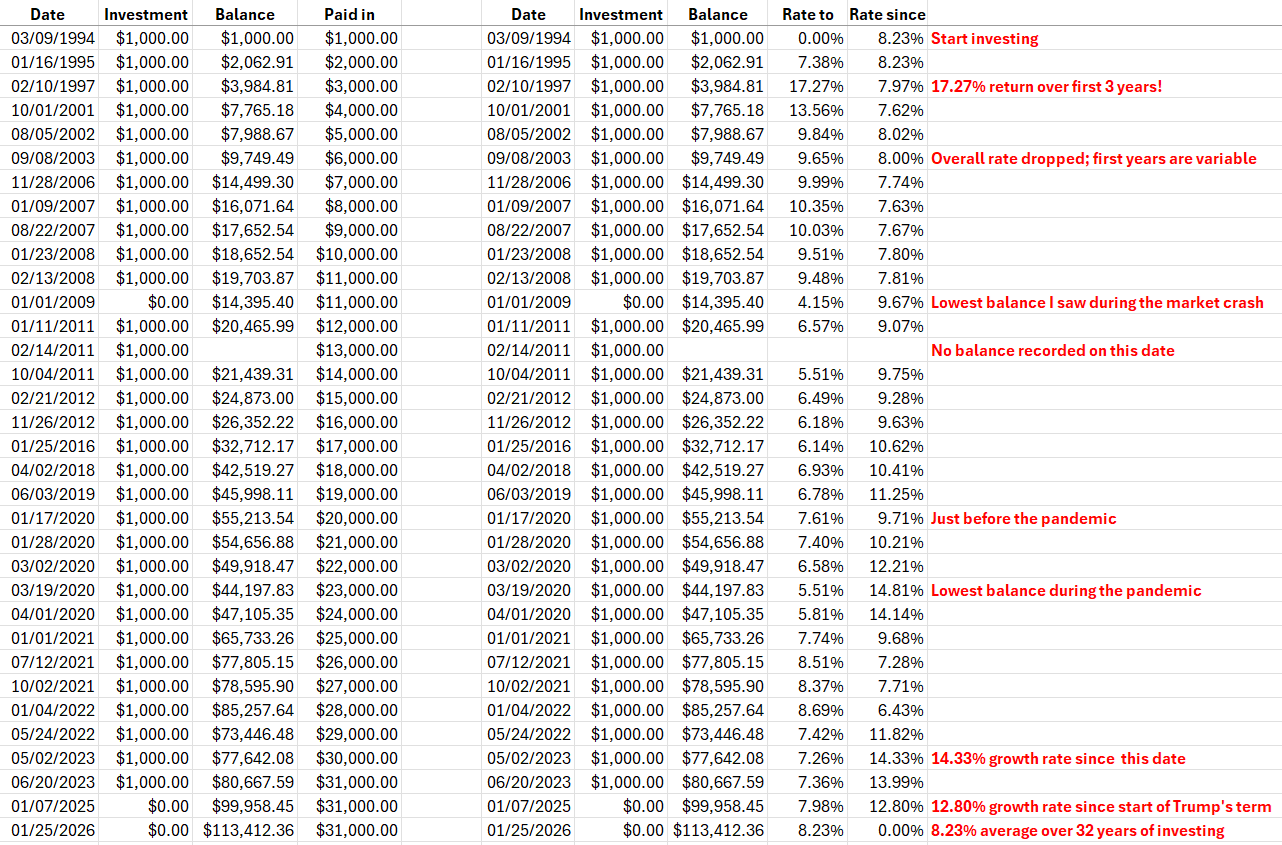
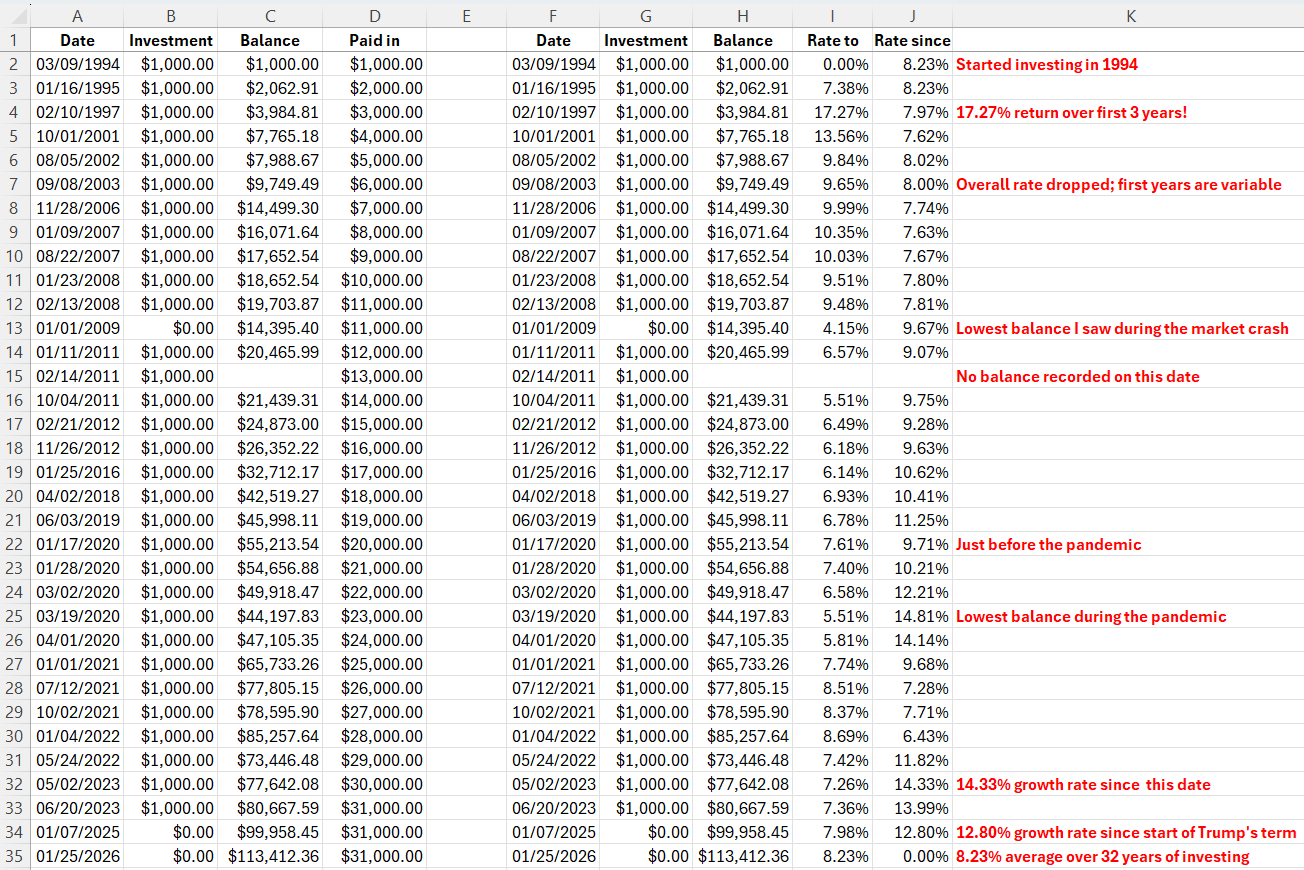
Update example1.png and its description

diff --git a/index.md b/index.md
@@ -18,7 +18,8 @@ Some investment accounts you may put money it and take it out, and the Investmen
 
 ## How to Use
 
-You can use the Investment Return Calculator in two ways:
+The Investment Return Calculator is a single, plain HTML file.
+You can use it in two ways:
 
 ### Run it in your browser
 [Open the calculator in your browser](https://clzirbel.github.io/investment_return_calculator/investment_return_calculator.html) to start calculating right away.
@@ -27,7 +28,7 @@ Your financial data never leaves your computer—it exists only in your browser'
 No data is transmitted or stored anywhere.
 You can disconnect from the internet and verify that it still works.
 
-### Download the calculator and run it locally
+### Download and run locally
 Right click the link above and Save As ... to save the file as investment_return_calculator.html on your computer.
 Put it where it is easy to find, like in the same folder where you track your investments.
 You can then open it in a web browser by double clicking on the file; you do not need to be connected to the internet.
@@ -35,7 +36,7 @@ Since the calculator runs entirely in your browser, your financial information i
 
 Both methods offer the same functionality with complete privacy and security. Your data is processed entirely on your computer with no external connections.
 
-## Input Data for a Single Investment Over Time
+## Input Data
 
 For multiple investments in the same thing over time, like contributions to an IRA over many years, copy and paste data into the first box below in this format:
 
@@ -48,7 +49,7 @@ Entries on each row should all be separated by tabs (as when copied from a sprea
 Don't mix separators within a single line.
 Dollar signs and commas will be stripped out from the input.
 
-## Output Analysis for a Single Investment Over Time
+## Output Analysis
 
 Results of the analysis are shown in the second box on the page.
 Suggestion to view the results: click in the box, select all (Ctrl-A), copy (Ctrl-C), and paste (Ctrl-V) into a spreadsheet, in new columns, not over top of your records.
@@ -57,12 +58,37 @@ The fourth column ("Rate to") shows the average rate of return from the first da
 The fifth column ("Rate since") shows the average rate of return from the date on the row to the last date.
 The rate of return will only be calculated for dates with a balance.
 
-## Example
+## 32-year Example
 
 I started investing in an IRA with Pax World Fund in 1994.
 From 1994 to 2026, I made 31 investments of various amounts, and kept track of the dates that I invested, the amount I invested on each date, and the balance on that date, when I could, and on other dates that I happened to check to balance.
 To make this example, I set all of the investment amounts to $1,000 and adjusted the balances to reflect the actual earning and losses of Pax World Fund.
 The investment performance is exactly the same as what I experienced, but the dollar amounts are modified so I could use it as a public example.
-You can see the data and the analysis of the Investment Return Calculator in the [spreadsheet I uploaded](assets/example.xlsx)
+
+The image below shows the data and the analysis.
+- Column A shows the dates of investments or when I checked the balance
+- Column B shows the amount invested on that date; withdrawals would be negative numbers
+- Column C shows the balance on that date; not all dates have a balance and that's OK
+- Column D uses an Excel formula to tally up the total invested
+I selected the data from column A, B, C rows 2 to 35 and pasted into the Investment Return Calculator.
+- Column F is the date as output by the calculator and formatted by Excel
+- Column G is the investment amount
+- Column H is the balance, same as Column C
+- Column I tells the average rate from the first date in 1994 until the date in the row
+- Column J tells the average rate from the date in the row until the last date, in 2026
+- Column K has some comments and observations
 
 <img src="assets/example1.png" alt="Example screenshot" style="max-width:100%; height:auto;">
+
+A few more comments about the data shown above.
+In the first few years of the investment, the average rate of return varied wildly between 7% and 17%.
+That is normal, because prices on the market fluctuate a lot on the short term.
+But by about 2021, which is 27 years later, the overall rate of return settles down to around 8%.
+
+Pax World Fund is a balanced fund, about 60% stocks and 40% bonds.
+It has a somewhat lower average rate of return than pure stock funds.
+
+You can download the data and the analysis of the Investment Return Calculator in the [Excel spreadsheet I uploaded](assets/example.xlsx).
+You can use that spreadsheet as a template to record your own investments.
+
+
